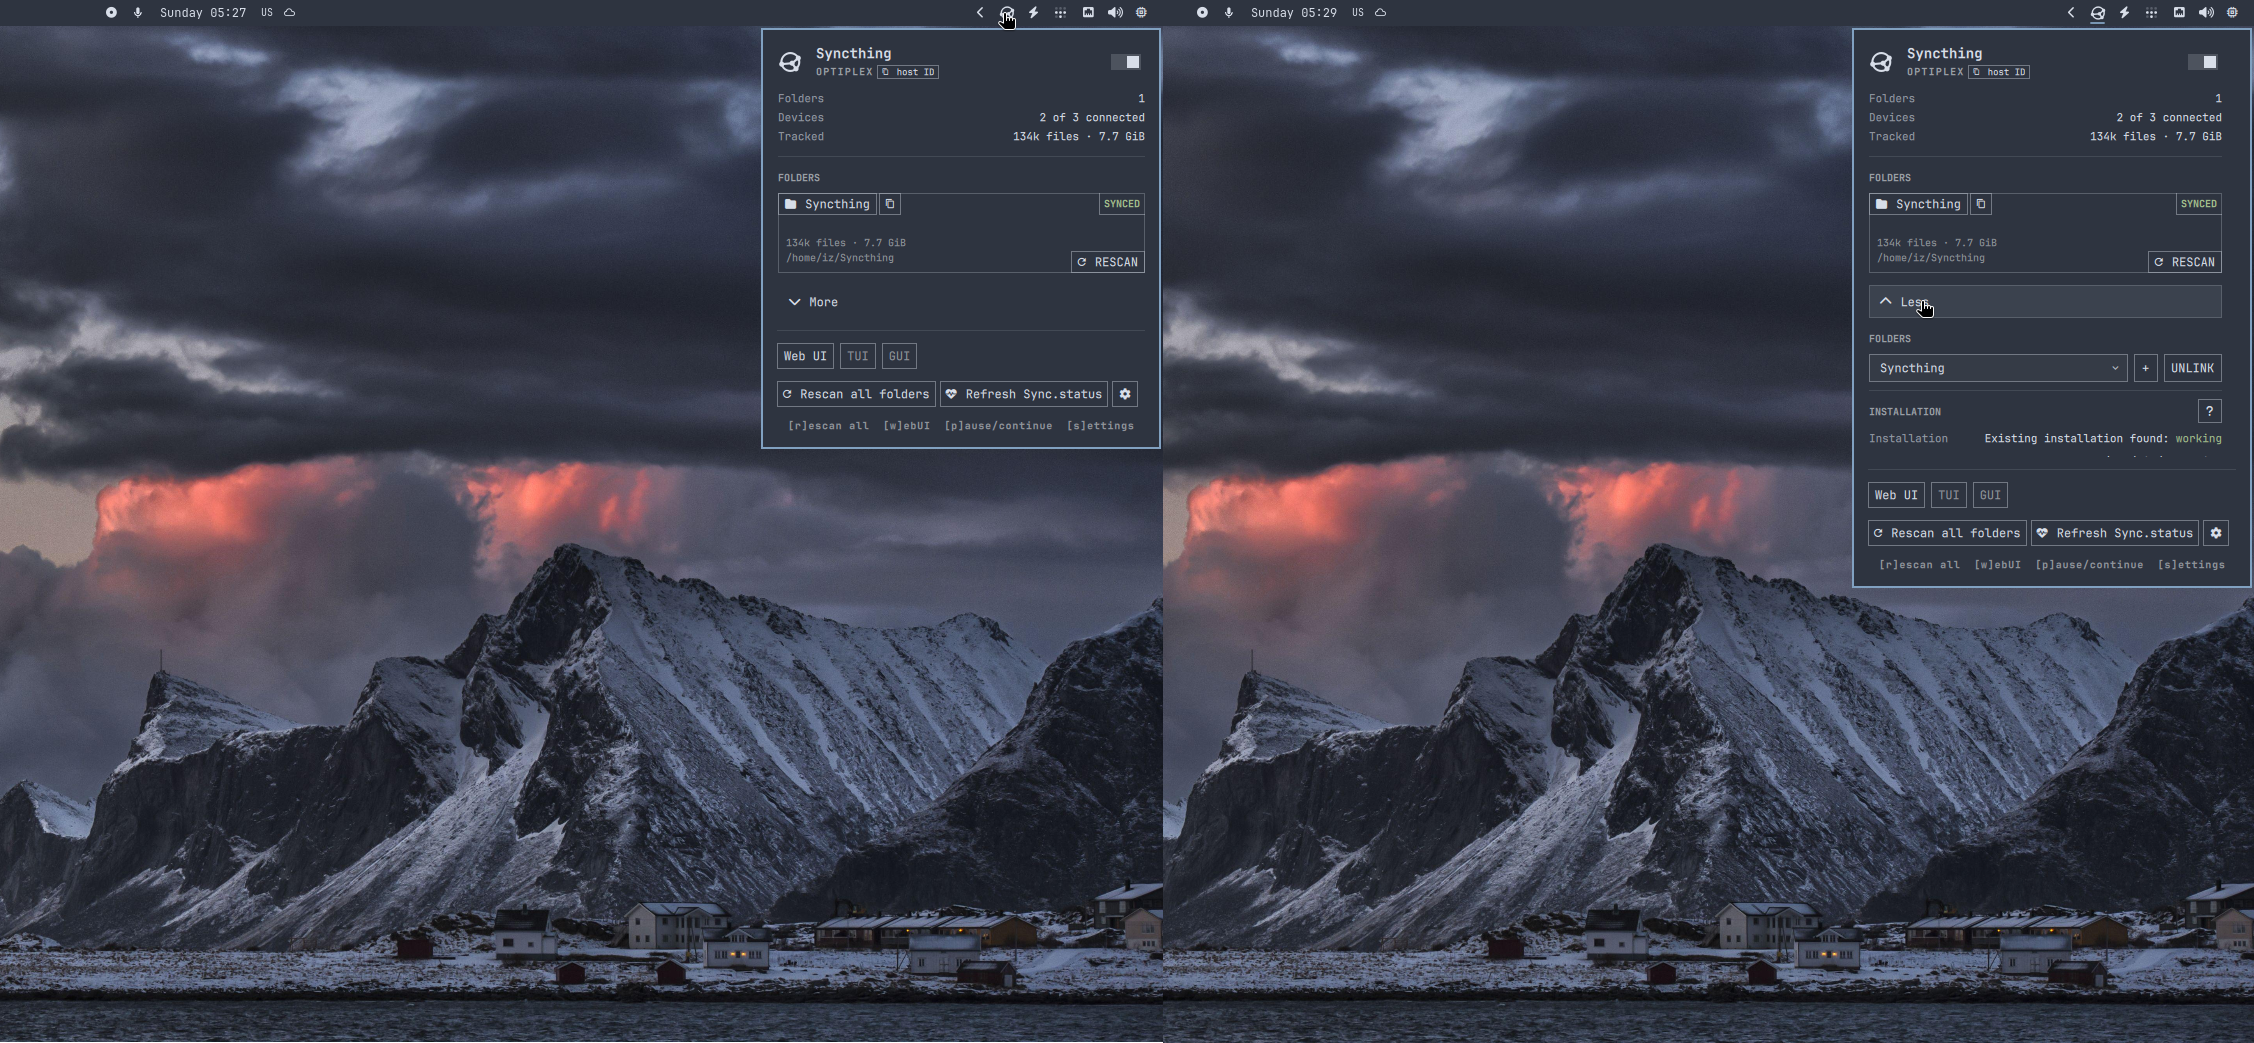
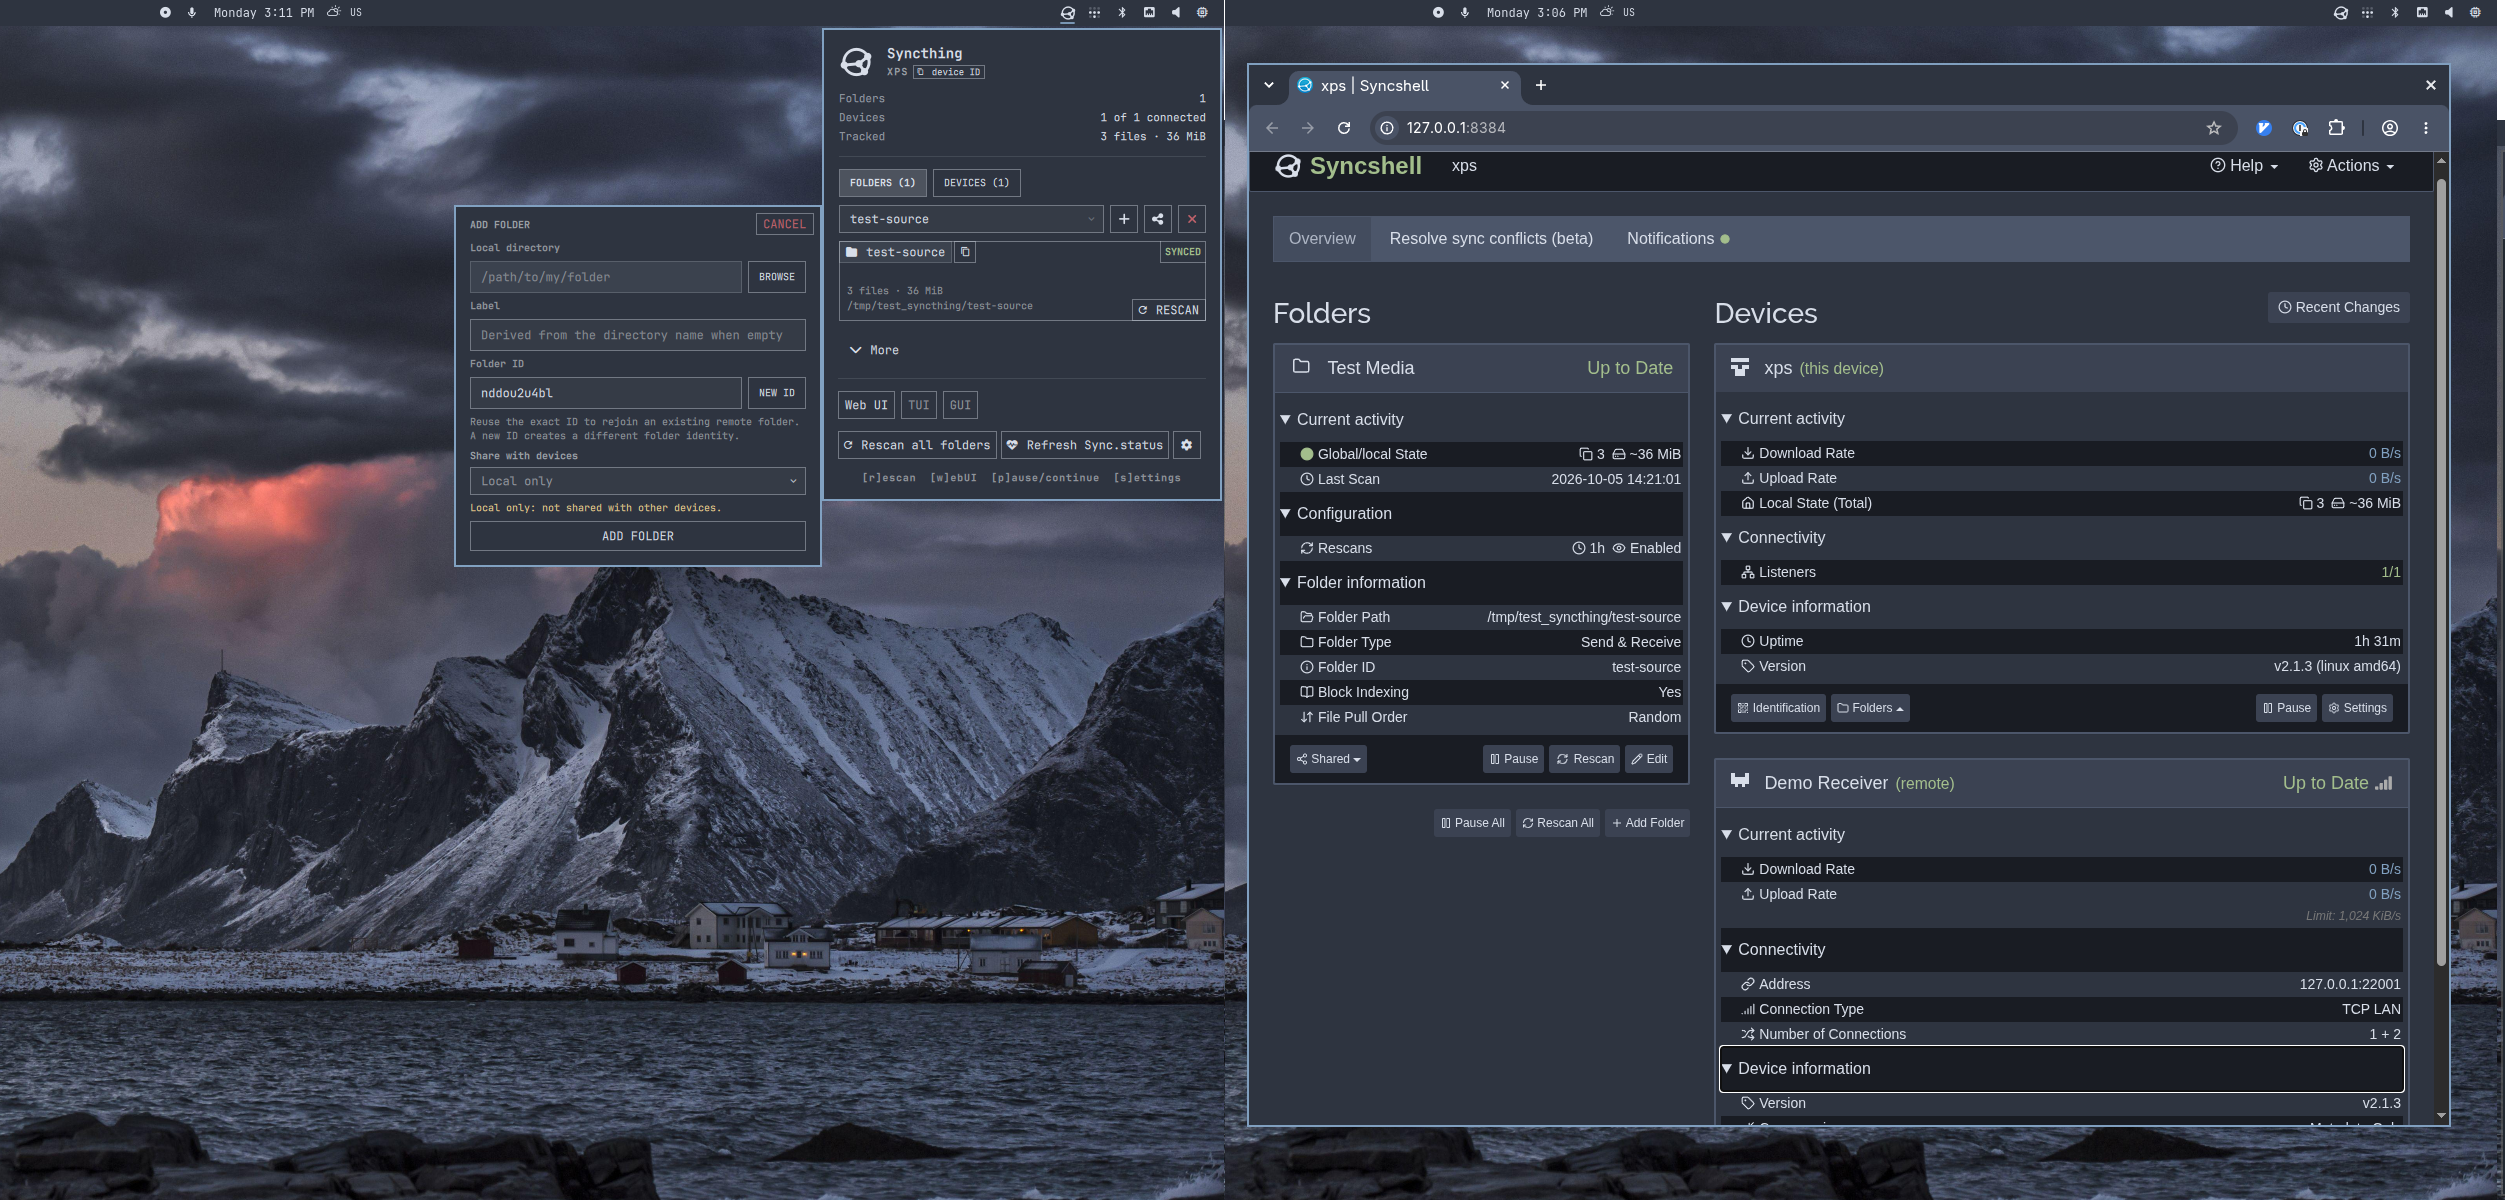
style: better preview img, and README docs

diff --git a/README.md b/README.md
@@ -38,7 +38,7 @@ the Omarchy bar, manages local folders and opens a redesigned Web UI.
 Versions >= 0.1.8 use a bundled Go core since other Linux shell adapters are
 planned.
 
-![Syncthing status and installation controls](preview.png)
+![Syncshell plugin on the left and redesigned web UI on the right](preview.png)
 
 ## Demo videos
 
@@ -199,8 +199,10 @@ profiles; `modern` keeps its own appearance.
 
 ## New Web UI
 
-The bundled UI keeps Syncthing's API and adds a few changes over the classical
-interface:
+The web UI is independently developed as a self-contained interface under
+[syncshell-webui](https://github.com/syncshell/syncshell-webui/). A bundled
+version is shipped with this plugin. It keeps Syncthing's API and adds a modern
+look and cosmetic changes over the classical interface:
 
 - **Clearer layout:** folders, this device and remote devices sit alongside each
   other on wide screens and stack on smaller ones. Current activity stays
@@ -272,8 +274,10 @@ for file actions; permission errors leave files unchanged. Discovery and
 rechecks remain available without desktop access. Reopen through the plugin
 after its core restarts.
 
-Tested with Syncthing >=v2.1.3. Source history and licensing details are
-recorded in [Syncshell Web provenance][webui-provenance].
+For issue submission regarding the new web UI please refer to its GitHub repo
+issue section under
+[issues](https://github.com/syncshell/syncshell-webui/issues) (licensing details
+are recorded in [Syncshell Web provenance][webui-provenance]).
 
 ## Manage folders and devices from the panel
 
